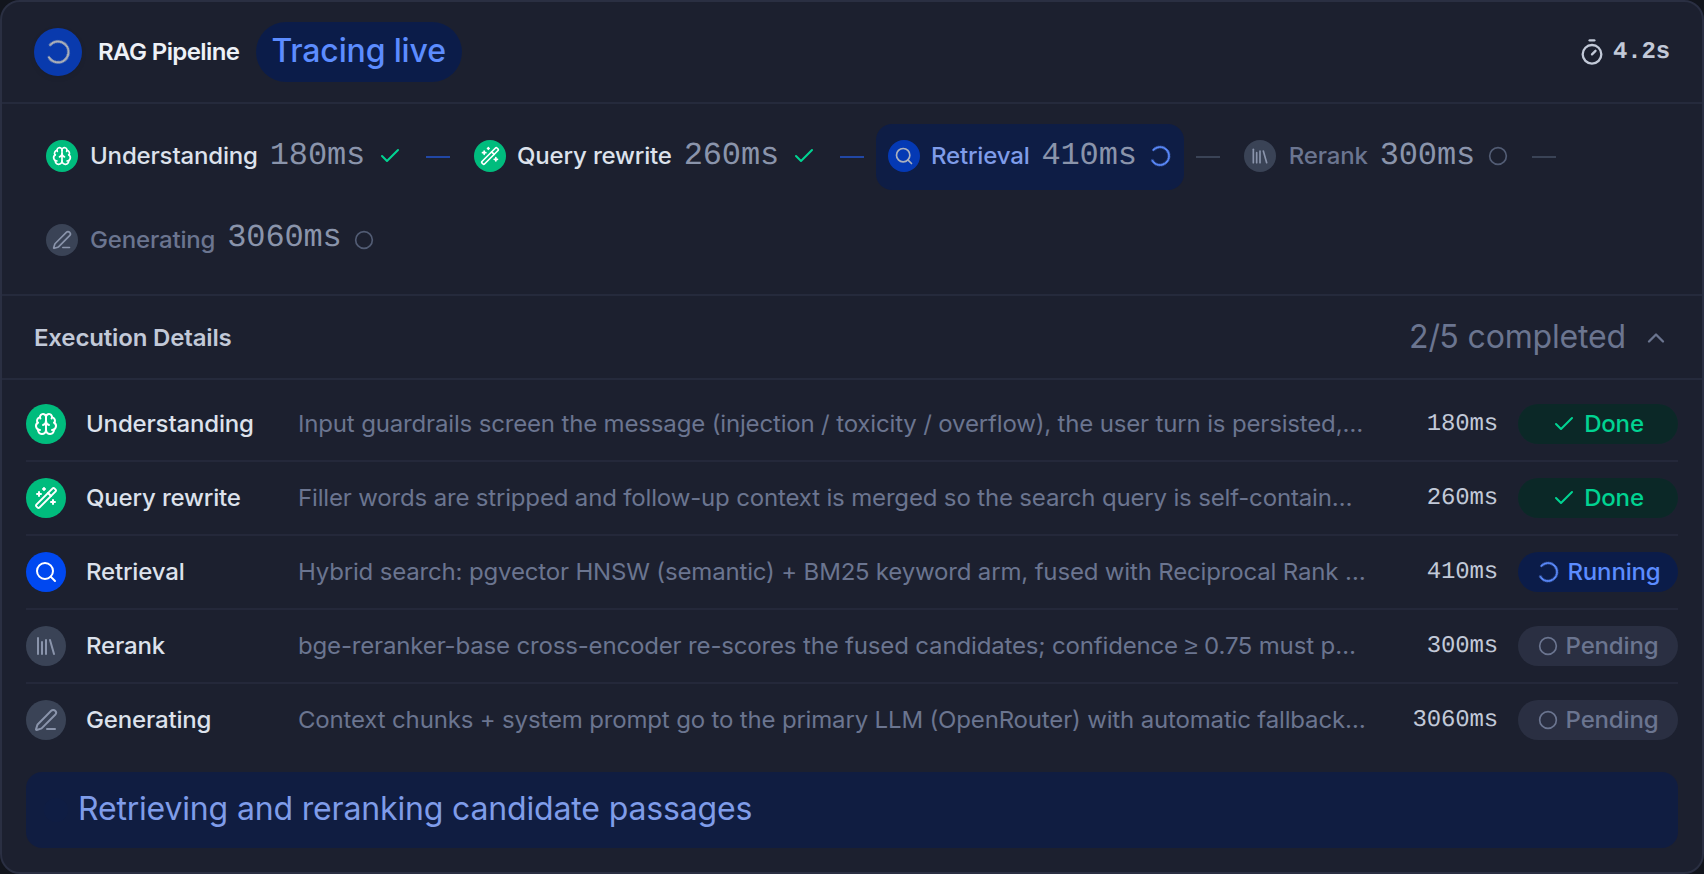
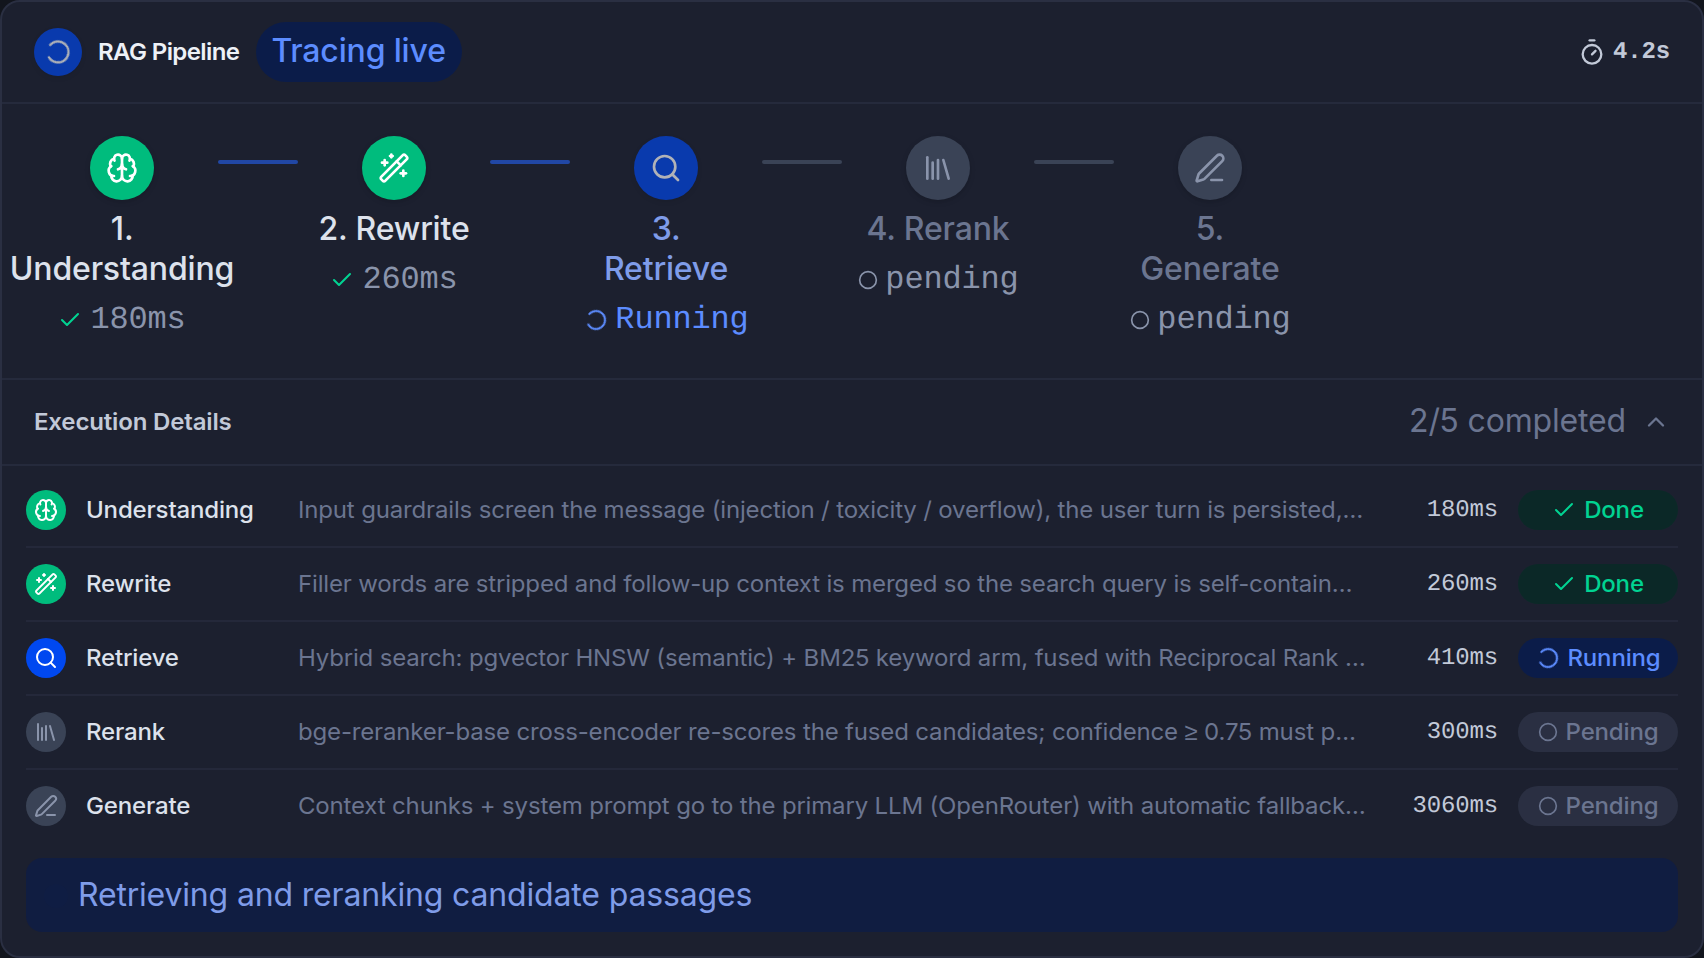
fix(chat): match the pipeline strip to the reference layout
The previous commit unified the icon SET but kept the strip's inline row, so it
still did not look like the reference. Decoding the reference (RapidOCR, since the
vision model is down) gave its exact contents, and the strip differs structurally:

  reference:  [badge] ---- [badge] ---- [badge] ---- [badge] ---- [badge]
              1. Understanding  2. Rewrite  ...
              127ms             76ms        ...

  before:     [disc][label][ms][state] - [disc][label][ms][state] - ...

So the badge sat inline with its own label instead of above it, at 16px instead of
a size where the glyph is legible, and the label carried no step number even though
the reference prints one.

Changes:

- Each step is now a vertical stack: circular badge, numbered label, then the ms.
  The badge is size-8 (was size-4) so the stage glyph reads as an icon and not a
  smudge, and the label is centred under it.
- Labels carry the step number, exactly as the reference prints them.
- The ms slot states the state in words when there is no measurement yet: a
  spinning Loader2 + "Running" for the active step, Check + ms for a finished one,
  Circle + "pending" otherwise. The reference shows "Running...." in that slot.
- Connector bars between badges are thicker (h-0.5) and sit at badge mid-height,
  matching the reference's connectors.
- Labels renamed to the reference's wording: "Query rewrite" -> "Rewrite",
  "Retrieval" -> "Retrieve", "Generating" -> "Generate". "Understanding" and
[…]

diff --git a/desktop/src/features/chat/components/RagPipelineStatus.tsx b/desktop/src/features/chat/components/RagPipelineStatus.tsx
@@ -73,7 +73,7 @@ const STEPS: StepDef[] = [
   },
   {
     key: "rewrite",
-    label: "Query rewrite",
+    label: "Rewrite",
     icon: WandSparkles,
     description:
       "Filler words are stripped and follow-up context is merged so the " +
@@ -81,7 +81,7 @@ const STEPS: StepDef[] = [
   },
   {
     key: "retrieve",
-    label: "Retrieval",
+    label: "Retrieve",
     icon: Search,
     description:
       "Hybrid search: pgvector HNSW (semantic) + BM25 keyword arm, fused " +
@@ -97,7 +97,7 @@ const STEPS: StepDef[] = [
   },
   {
     key: "generate",
-    label: "Generating",
+    label: "Generate",
     icon: PenLine,
     description:
       "Context chunks + system prompt go to the primary LLM (OpenRouter) " +
@@ -346,10 +346,14 @@ export default function RagPipelineStatus({
         )}
       </div>
 
-      {/* ---- stage strip: always on screen ---- */}
+      {/* ---- stage strip: always on screen ----
+          Each step is a vertical stack, not an inline row: a circular badge carrying the
+          stage glyph, then its numbered label, then the measured ms (or "Running" while
+          the step is still in flight). The reference lays it out this way, and it lets the
+          badge stay legible at a size where the glyph reads as an icon rather than a smudge. */}
       <div
         data-testid="rag-pipeline-stages"
-        className="flex flex-wrap items-center gap-x-1.5 gap-y-2 border-t border-slate-100 px-4 py-2.5 dark:border-slate-800/70"
+        className="flex flex-wrap items-start gap-x-1 gap-y-3 border-t border-slate-100 px-4 py-3 dark:border-slate-800/70"
       >
         {steps.map((step, idx) => {
           const isActive = active && idx === activeIdx;
@@ -360,19 +364,19 @@ export default function RagPipelineStatus({
               {idx > 0 && (
                 <span
                   aria-hidden
-                  className={`h-px w-3 shrink-0 ${
+                  className={`mt-4 h-0.5 w-6 shrink-0 rounded-full sm:w-10 ${
                     isDone || isActive ? "bg-blue-500/60" : "bg-slate-200 dark:bg-slate-700"
                   }`}
                 />
               )}
               <span
                 title={step.description}
-                className={`inline-flex items-center gap-1.5 rounded-lg px-1.5 py-1 ${
-                  isActive ? "bg-blue-50 dark:bg-blue-950/50" : ""
-                }`}
+                data-step={step.key}
+                data-state={isActive ? "running" : isDone ? "done" : "pending"}
+                className="flex w-[5.5rem] shrink-0 flex-col items-center gap-1 rounded-lg px-1 py-1"
               >
                 <span
-                  className={`grid size-4 shrink-0 place-items-center rounded-full ${
+                  className={`grid size-8 shrink-0 place-items-center rounded-full shadow-sm ${
                     isActive
                       ? "animate-pulse bg-blue-600 text-white"
                       : isDone
@@ -380,10 +384,10 @@ export default function RagPipelineStatus({
                         : "bg-slate-200 text-slate-500 dark:bg-slate-700 dark:text-slate-400"
                   }`}
                 >
-                  <step.icon aria-hidden className="size-2.5" />
+                  <step.icon aria-hidden className="size-4" />
                 </span>
                 <span
-                  className={`text-xs font-medium ${
+                  className={`text-center text-2xs font-medium leading-tight ${
                     isActive
                       ? "text-blue-700 dark:text-blue-300"
                       : isDone
@@ -391,32 +395,32 @@ export default function RagPipelineStatus({
                         : "text-slate-400 dark:text-slate-500"
                   }`}
                 >
-                  {step.label}
+                  {idx + 1}. {step.label}
                 </span>
                 <span
-                  className={`font-mono text-2xs tabular-nums ${
-                    ms != null ? "text-slate-500 dark:text-slate-400" : "text-slate-300 dark:text-slate-600"
-                  }`}
-                >
-                  {ms != null ? `${ms}ms` : "\u2014"}
-                </span>
-                <span
-                  role="img"
-                  aria-label={isActive ? "running" : isDone ? "done" : "pending"}
-                  className={`grid place-items-center ${
+                  className={`flex items-center gap-1 font-mono text-2xs tabular-nums ${
                     isActive
                       ? "text-blue-600 dark:text-blue-400"
-                      : isDone
-                        ? "text-emerald-600 dark:text-emerald-400"
+                      : ms != null
+                        ? "text-slate-500 dark:text-slate-400"
                         : "text-slate-300 dark:text-slate-600"
                   }`}
                 >
                   {isActive ? (
-                    <Loader2 aria-hidden className="size-3 animate-spin" />
+                    <>
+                      <Loader2 aria-hidden className="size-3 animate-spin" />
+                      Running
+                    </>
                   ) : isDone ? (
-                    <Check aria-hidden className="size-3" />
+                    <>
+                      <Check aria-hidden className="size-3 text-emerald-600 dark:text-emerald-400" />
+                      {ms != null ? `${ms}ms` : "done"}
+                    </>
                   ) : (
-                    <Circle aria-hidden className="size-2.5" />
+                    <>
+                      <Circle aria-hidden className="size-2.5" />
+                      pending
+                    </>
                   )}
                 </span>
               </span>
